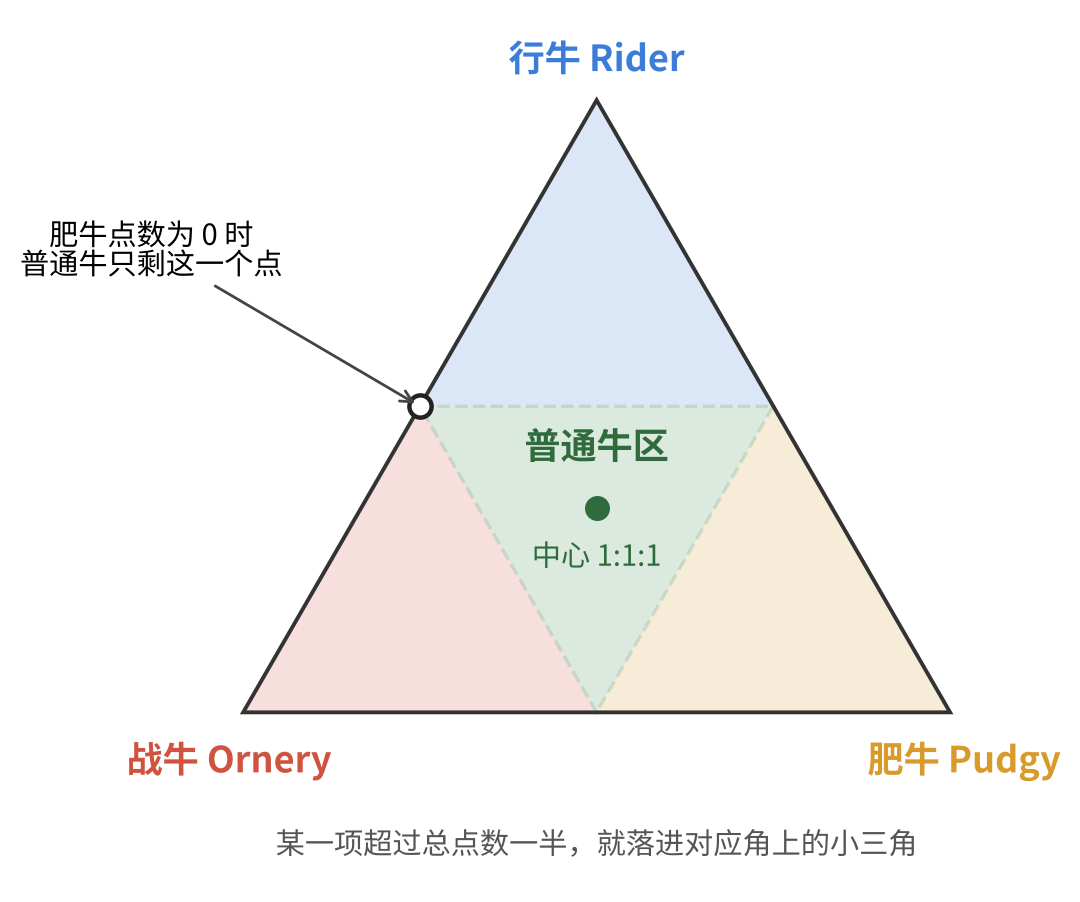
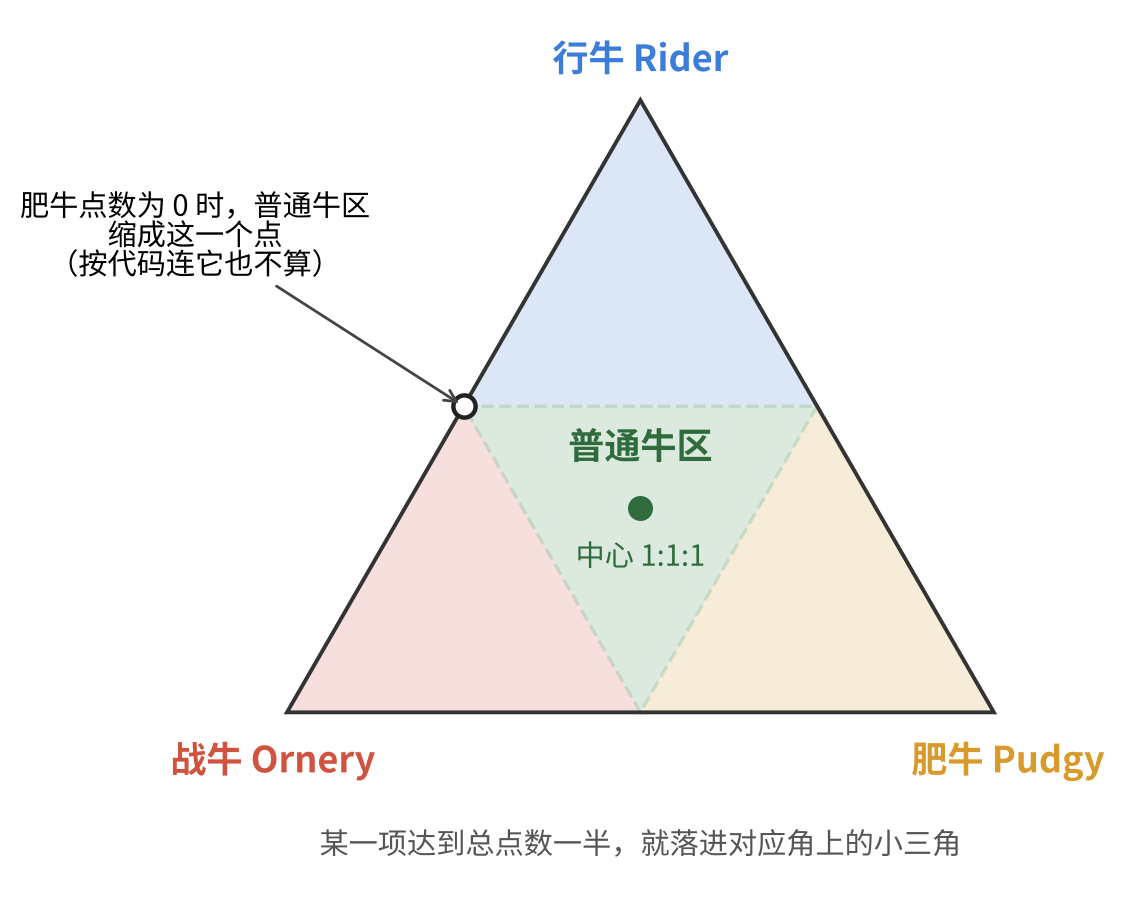
Check beefalo tendency numbers against the game scripts
Pudgy points scale with hunger digested, not time, so a full day
gives 0.125 rather than 0.2. A tendency at exactly half also wins.

Claude-Session: https://claude.ai/code/session_011ByysUX9Xcxct4QP5Gmffj

diff --git a/src/content/posts/game/饥荒驯牛三元相图.md b/src/content/posts/game/饥荒驯牛三元相图.md
@@ -26,15 +26,15 @@ slug: dst-beefalo-ternary-diagram
 | 肥牛 Pudgy | 饥饿值高于一半时，每消化 1 点饥饿 +1/2400（全天约 +0.125） | 速度 6.5，攻击 20，回理智 +6.25/分 |
 | 普通牛 Default | 以上都不满足 | 速度 7，攻击 34，和野牛一样 |
 
-驯化度到 100% 后，下一次喂食时会锁定形态。判定规则只有一条：**哪一项点数超过三项总和的一半，就是哪种牛；都没超过，就是普通牛。** "超过一半"等价于"大于另外两项之和"：
+驯化度到 100% 后，下一次喂食时会锁定形态。判定规则只有一条：**最大的那一项如果达到三项总和的一半，就是哪种牛；不到一半，就是普通牛**（另外总点数不足 0.1 时也是普通牛）。游戏代码里写的是 `maxtendencyval * 2 < tendencysum` 才算普通牛，所以恰好一半也算偏了。"达到一半"等价于"不小于另外两项之和"：
 
 $$
-\text{战牛}\iff W > R + P,\quad \text{行牛}\iff R > W + P,\quad \text{肥牛}\iff P > W + R
+\text{战牛}\iff W \ge R + P,\quad \text{行牛}\iff R \ge W + P,\quad \text{肥牛}\iff P \ge W + R
 $$
 
-三个数、只看比例、和固定为 1，这正好是三元相图的设定。把三种驯势各放在三角形的一个角上，任意一组点数都对应三角形里的一个点。"某一项超过一半"的区域，是靠近那个角的小三角；三个小三角切掉之后，中间剩下的倒三角就是普通牛区。
+三个数、只看比例、和固定为 1，这正好是三元相图的设定。把三种驯势各放在三角形的一个角上，任意一组点数都对应三角形里的一个点。"某一项达到一半"的区域，是靠近那个角的小三角；三个小三角切掉之后，中间剩下的倒三角就是普通牛区。
 
-![驯牛三元相图：三个角分别是行牛、战牛、肥牛，各自的小三角是该驯势超过一半的区域；中间的倒三角是普通牛区，中心是 1:1:1；左边中点标出了肥牛点数为 0 时普通牛只剩一个点](./饥荒驯牛三元相图.assets/fig1-ternary-regions.png)
+![驯牛三元相图：三个角分别是行牛、战牛、肥牛，各自的小三角是该驯势达到一半的区域；中间的倒三角是普通牛区，中心是 1:1:1；左边中点标出了肥牛点数为 0 时普通牛区缩成的那一个点](./饥荒驯牛三元相图.assets/fig1-ternary-regions.png)
 
 普通牛区正好占整个三角形的四分之一。
 
@@ -44,7 +44,7 @@ $$
 
 AI 的思路是先不管肥牛，让肥牛点数为 0，然后让战牛和行牛 1:1。它给了一个很具体的换算：1 次战斗约等于骑行 10 秒，所以每骑 1 分钟就打 6 下。
 
-问题在图上一眼就能看出来。肥牛为 0，意味着点落在战牛和行牛之间那条边上。这条边上，普通牛区只剩**中点这一个点**：战牛多一下就是战牛，行牛多一秒就是行牛。要靠手动数数，在二十天里把两个数卡得一模一样，几乎不可能。
+问题在图上一眼就能看出来。肥牛为 0，意味着点落在战牛和行牛之间那条边上。这条边上，普通牛区最多只剩**中点这一个点**：战牛多一下就是战牛，行牛多一秒就是行牛。要靠手动数数，在二十天里把两个数卡得一模一样，几乎不可能。而且按上面那行代码，恰好相等时最大值乘 2 正好等于总和，不满足"小于"，连这一个点都不算普通牛。
 
 所以我换了个目标：**瞄准三角形的正中心，三种驯势 1:1:1。** 中心离三条边界最远，每一项都可以从三分之一一直涨到二分之一才会出事，容错空间最大。驯牛这件事真正要防的不是"差一点"，而是"某一项失控"，站在中心就是给每一项都留出最大余量。
 
@@ -79,9 +79,9 @@ AI 第一反应是这会"过饱"，再喂就会呕吐，而且呕吐会扣行牛
 
 ## 五、用真实数值重算一遍
 
-聊天时 AI 一直用的是同一个数：三种驯势都是"每 10 秒或每次 +0.004"。我当时没怀疑，事后对 wiki 才发现只有战牛是这样：
+聊天时 AI 一直用的是同一个数：三种驯势都是"每 10 秒或每次 +0.004"。我当时没怀疑，事后对照 wiki 和游戏代码才发现，只有战牛是这样：
 
-| 驯势 | AI 说的 | wiki | 每天最多 |
+| 驯势 | AI 说的 | 游戏代码 | 每天最多 |
 | --- | --- | --- | --- |
 | 战牛 | 每次攻击或挨打 +0.004 | 同上，但**只算骑在牛上时** | 看打多少下 |
 | 行牛 | 每骑 10 秒 +0.004 | 每骑 1 秒 +1/2400，折合每 10 秒约 +0.0042 | 0.2 |
@@ -89,9 +89,26 @@ AI 第一反应是这会"过饱"，再喂就会呕吐，而且呕吐会扣行牛
 
 差别不在小数点后几位，而在于：**骑满一天和饱满一天，攒的点数并不一样**，行牛是肥牛的 1.6 倍。
 
+肥牛这一项，各处说法不一致。灰机 wiki 写的是"饥饿值在 50% 以上时，每 10 秒增加 0.42%（即每天 20%）"，和行牛一样。我去翻了游戏脚本，`tuning.lua` 里行牛和肥牛的系数确实相同：
+
+```lua
+BEEFALO_PUDGY_WELLFED = 1/(total_day_time*5),
+BEEFALO_RIDER_RIDDEN  = 1/(total_day_time*5),
+```
+
+但两者乘的东西不一样。行牛乘的是骑行秒数 `dt`；肥牛在 `beefalo.lua` 里乘的是饥饿值的变化量：
+
+```lua
+if data.oldpercent > 0.5 then
+    inst.components.domesticatable:DeltaTendency(TENDENCY.PUDGY, TUNING.BEEFALO_PUDGY_WELLFED * -data.delta)
+end
+```
+
+而 `hunger.lua` 里 `delta = self.current - old`，是饥饿值的绝对点数。牛每秒掉 300/480 = 0.625 点饥饿，所以饱食过半时，肥牛每秒涨的是行牛的 0.625 倍。一天下来是 $300 / 2400 = 0.125$，不是 0.2。wiki.gg 写的"每消化 1 点饥饿 +1/2400"和代码一致。
+
 这会推翻 AI 后面一个很关键的结论。我当时问的是："如果行牛和肥牛连续 20 天都拉满，最多能战斗多少次，还能是普通牛？"AI 的回答是：行牛、肥牛都是 3.84，所以战斗次数在 0 到 1919 之间都行，"完全不战斗也是普通牛"。
 
-按 wiki 的数值重算，20 天下来 $R = 0.2 \times 20 = 4$，$P = 0.125 \times 20 = 2.5$。普通牛要求三个不等式都不成立：
+按代码里的数值重算，20 天下来 $R = 0.2 \times 20 = 4$，$P = 0.125 \times 20 = 2.5$。普通牛要求三个"达到一半"的条件都不成立：
 
 $$
 R < W + P \Rightarrow W > 1.5,\qquad W < R + P \Rightarrow W < 6.5
@@ -101,7 +118,7 @@ $$
 
 ![整天骑行且饥饿值全天高于一半时，随着每天战斗次数增加，点从行牛和肥牛之间的边出发，穿过普通牛区，进入战牛区；进出普通牛区的位置约是每天 19 次和 81 次，每天 48 次落在中间](./饥荒驯牛三元相图.assets/fig2-full-ride-line.png)
 
-wiki 还提到，每种驯势每天会自然衰减约 0.022（1/45）。三项都按同样的量往下掉，粗算下来区间会收窄到大约 490 到 1510 次。每天 48 次仍然稳稳落在中间。
+另外，每种驯势每天会自然衰减 1/45（约 0.022），代码里这个衰减一直在跑，不只是没人照顾的时候。三项都按同样的量往下掉，粗算下来区间会收窄到大约 490 到 1510 次。每天 48 次仍然稳稳落在中间。
 
 ## 六、省食物？肥牛点数就是容错
 
@@ -132,8 +149,8 @@ $$
 - 建议让蜜蜂叮停在原地的牛来刷战斗点数，而 wiki 写明不骑在牛上时挨打不算；
 - 最后的省食方案又回到了"两项 1:1"的刀刃上。
 
-我当时能挑出来的，都是和游戏手感对不上的地方，比如"每天 300"这种玩久了自然记得的数。剩下几处是事后翻 wiki 才发现的。有一点很明显：每次我质疑，它都先夸一句"非常聪明""一针见血"，然后顺着我改。这让它在我对的时候显得很配合，但如果我错了，它大概也会顺着我错下去。
+我当时能挑出来的，都是和游戏手感对不上的地方，比如"每天 300"这种玩久了自然记得的数。剩下几处是事后翻 wiki 才发现的，而 wiki 之间也会打架，肥牛的涨点速度最后是翻代码才定下来的。有一点很明显：每次我质疑，它都先夸一句"非常聪明""一针见血"，然后顺着我改。这让它在我对的时候显得很配合，但如果我错了，它大概也会顺着我错下去。
 
 把规则画成三元相图，倒是从头到尾都管用。它不依赖具体数值：不管涨点速度是多少，"站在中间、别站在边上"这个结论都不会变。
 
-> 关于这篇文章：和 AI 的对话发生在 2026 年 10 月 5 日，文中游戏数值以 [Don't Starve Wiki（wiki.gg）的 Beefalo/DST 页面](https://dontstarve.wiki.gg/wiki/Beefalo/DST)为准，查阅于 2026 年 10 月。游戏更新后数值可能会变。
+> 关于这篇文章：和 AI 的对话发生在 2026 年 10 月 5 日。文中游戏数值以游戏脚本为准（看的是 GitHub 上的镜像 [taichunmin/dont-starve-together-game-scripts](https://github.com/taichunmin/dont-starve-together-game-scripts) 中的 `tuning.lua`、`prefabs/beefalo.lua`、`components/hunger.lua` 和 `components/domesticatable.lua`），并参考了 [wiki.gg 的 Beefalo/DST 页面](https://dontstarve.wiki.gg/wiki/Beefalo/DST)和[灰机 wiki 的皮弗娄牛页面](https://dontstarve.huijiwiki.com/wiki/皮弗娄牛)，查阅于 2026 年 10 月。游戏更新后数值可能会变。
